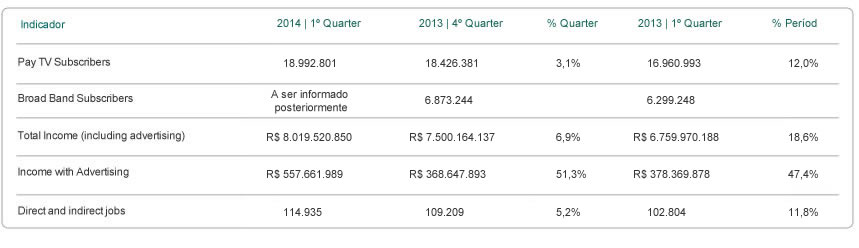
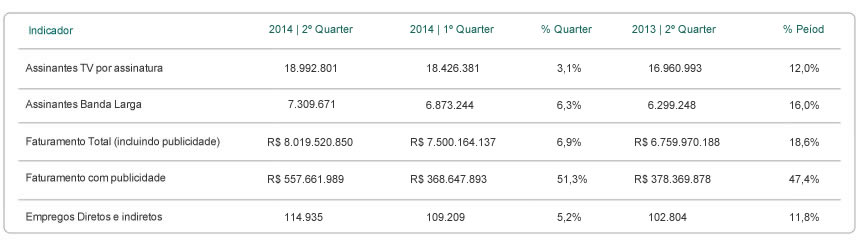
Atualização Dados do setor 2 trimestre 2014

diff --git a/jsGraficos/graficos.js b/jsGraficos/graficos.js
@@ -130,12 +130,12 @@ $(function () {
             zoomType:'xy',
         },
         title: {
-            text: 'Evolução do número de assinantes banda larga (em milhões) - Em breve, dados do 2º trimestre.'
+            text: 'Evolução do número de assinantes banda larga (em milhões)'
         },
         colors:['#020167','#1D3C7D','#264412','#49782A','#5A9332','#D4960F'],
         
         xAxis: {
-            categories: ['2002','2003','2004','2005','2006','2007','2008','2009','2010','2011','2012','2013','1T 2014']
+            categories: ['2002','2003','2004','2005','2006','2007','2008','2009','2010','2011','2012','2013','2T 2014']
         },
         yAxis: {            
             title: {
@@ -190,7 +190,7 @@ $(function () {
         },
         {
             name: 'Δ2T',
-            data: [null,null,null,null,null,null,null,null,null,null,null,0.2,null]
+            data: [null,null,null,null,null,null,null,null,null,null,null,0.2,0.5]
         },
             {
             name: 'Δ1T',

diff --git a/jsGraficos/graficos_vg.js b/jsGraficos/graficos_vg.js
@@ -135,12 +135,12 @@ $(function () {
             zoomType:'xy',
         },
         title: {
-            text: 'Suscriptores Internet Banda Ancha (en millones) - En resumen, los datos del segundo trimestre.'
+            text: 'Suscriptores Internet Banda Ancha (en millones).'
         },
         colors:['#020167','#1D3C7D','#264412','#49782A','#5A9332','#D4960F'],
         
         xAxis: {
-            categories: ['2002','2003','2004','2005','2006','2007','2008','2009','2010','2011','2012','2013','1T 2014']
+            categories: ['2002','2003','2004','2005','2006','2007','2008','2009','2010','2011','2012','2013','2T 2014']
         },
         yAxis: {            
             title: {
@@ -201,7 +201,7 @@ $(function () {
         },
         {
             name: 'Δ2T',
-            data: [null,null,null,null,null,null,null,null,null,null,null,0.2,null]
+            data: [null,null,null,null,null,null,null,null,null,null,null,0.2,0.5]
         },
             {
             name: 'Δ1T',

diff --git a/jsGraficos/graficos_ovv.js b/jsGraficos/graficos_ovv.js
@@ -135,12 +135,12 @@ $(function () {
             zoomType:'xy',
         },
         title: {
-            text: 'Evolution of the Number of Broadband Subscribers - In brief, data from the 2nd quarter.'
+            text: 'Evolution of the Number of Broadband Subscribers.'
         },
         colors:['#020167','#1D3C7D','#264412','#49782A','#5A9332','#D4960F'],
         
         xAxis: {
-            categories: ['2002','2003','2004','2005','2006','2007','2008','2009','2010','2011','2012','2013','1T 2014']
+            categories: ['2002','2003','2004','2005','2006','2007','2008','2009','2010','2011','2012','2013','2T 2014']
         },
         yAxis: {            
             title: {
@@ -198,7 +198,7 @@ $(function () {
         },
         {
             name: 'Δ2T',
-            data: [null,null,null,null,null,null,null,null,null,null,null,0.2,null]
+            data: [null,null,null,null,null,null,null,null,null,null,null,0.2,0.5]
         },
             {
             name: 'Δ1T',
